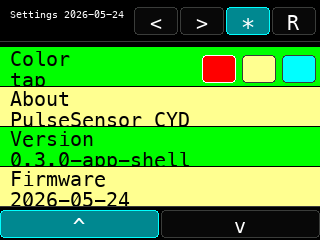
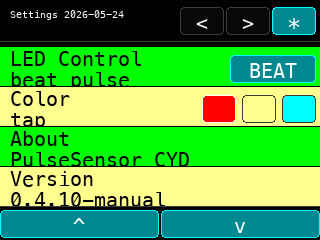
Make App 4 scanner manual and guarded

diff --git a/tools/check_app_shell.py b/tools/check_app_shell.py
@@ -8,6 +8,7 @@ required_tokens = [
     "About",
     "Version",
     "Firmware",
+    "Memory",
     "WiFi",
     "Bluetooth",
     "LED Control",
@@ -130,12 +131,16 @@ required_large_controls = {
     "Pin Scanner": "App 4 pin scanner title is missing",
     "PIN_SCANNER_PIN_COUNT": "App 4 pin scanner pin table is missing",
     "ScannerPin scannerPins[]": "App 4 pin scanner data model is missing",
-    "#define PIN_SCANNER_PIN_COUNT 2": "App 4 should only scan connector-safe external analog candidates",
+    "#define PIN_SCANNER_PIN_COUNT 4": "App 4 should list GPIO35, GPIO22, GPIO21, and GPIO27",
+    "scannerActiveIndex = -1": "App 4 scanner should start with no active pin selected",
+    "handlePinScannerTouch": "App 4 scanner should let one pin be selected at a time",
+    "isPinScannerAdcCapable": "App 4 scanner should guard non-ADC pins before reading",
+    "pinScannerStatusText": "App 4 scanner should explain inactive and non-ADC pin states",
     "HOT_MOVEMENT_MIN": "App 4 pin scanner hot movement threshold is missing",
     "SORT_INTERVAL_MS": "App 4 pin scanner sort interval is missing",
     "SORT_HYSTERESIS": "App 4 pin scanner sort hysteresis is missing",
     "setupPinScanner": "App 4 pin scanner setup is missing",
-    "updatePinScannerReadings": "App 4 pin scanner readings are not updated",
+    "updateActivePinScannerReading": "App 4 pin scanner should update only the selected pin",
     "maybeSortScannerPins": "App 4 pin scanner auto-sort is missing",
     "drawApp4PinScanner": "App 4 pin scanner renderer is missing",
     "drawPinScannerRow": "App 4 pin scanner row renderer is missing",
@@ -183,11 +188,26 @@ app3_fn_body = source[app3_fn_start:app3_fn_end]
 if "tft.fillRect(0, headerHeight" in app3_fn_body:
     raise SystemExit("Origin Story crawl clears the live TFT area directly, causing flicker")
 
-if "if (next > APP_PIN_SCANNER) next = APP_PULSE;" not in source:
-    raise SystemExit("App next navigation does not include App 4 before wrapping")
+expected_app_order = [
+    "APP_PULSE",
+    "APP_SETTINGS",
+    "APP_PIN_SCANNER",
+    "APP_PLACEHOLDER_1",
+    "APP_PLACEHOLDER_2",
+    "APP_COUNT",
+]
+enum_start = source.index("enum AppId {")
+enum_end = source.index("};", enum_start)
+enum_body = source[enum_start:enum_end]
+enum_positions = [enum_body.index(token) for token in expected_app_order]
+if enum_positions != sorted(enum_positions):
+    raise SystemExit("App order should be Pulse, Settings, Pin Scanner, your-app-here, Origin Story")
 
-if "currentApp == APP_SETTINGS ? APP_PIN_SCANNER" not in source:
-    raise SystemExit("App previous navigation does not include App 4")
+if "if (next > APP_PLACEHOLDER_2) next = APP_PULSE;" not in source:
+    raise SystemExit("App next navigation should wrap only after final Origin Story screen")
+
+if "previous == APP_PULSE ? APP_PLACEHOLDER_2" not in source:
+    raise SystemExit("App previous navigation should wrap back to final Origin Story screen")
 
 app4_branch_start = source.index("} else if (currentApp == APP_PIN_SCANNER) {")
 app4_branch_end = source.index("\n  }", app4_branch_start)
@@ -206,11 +226,19 @@ if "displayModeName()" not in app4_fn_body:
 scanner_start = source.index("ScannerPin scannerPins[] = {")
 scanner_end = source.index("};", scanner_start)
 scanner_body = source[scanner_start:scanner_end]
-for unsafe_pin in ['"IO22"', '"LDR IO34"', '"IO32"', '"IO33"', ", 22,", ", 32,", ", 33,"]:
+for unsafe_pin in ['"LDR IO34"', '"IO32"', '"IO33"', ", 32,", ", 33,"]:
     if unsafe_pin in scanner_body:
         raise SystemExit(f"App 4 pin scanner includes unsafe integrated-app scan target: {unsafe_pin}")
-for required_pin in ['"P3  IO35"', '"CN1 IO27"']:
+for required_pin in ['"P3  IO35"', '"IO22"', '"BL  IO21"', '"CN1 IO27"']:
     if required_pin not in scanner_body:
         raise SystemExit(f"App 4 pin scanner is missing external connector target: {required_pin}")
+
+active_update_start = source.index("void updateActivePinScannerReading() {")
+active_update_end = source.index("void maybeSortScannerPins()", active_update_start)
+active_update_body = source[active_update_start:active_update_end]
+if "analogRead(21)" in active_update_body or "analogRead(22)" in active_update_body:
+    raise SystemExit("App 4 scanner still directly reads known non-ADC pins")
+if "isPinScannerAdcCapable(scannerPins[scannerActiveIndex].pin)" not in active_update_body:
+    raise SystemExit("App 4 scanner does not guard analogRead with ADC capability")
 
 print("App shell checks passed")

diff --git a/tools/render_settings_mock.py b/tools/render_settings_mock.py
@@ -18,7 +18,7 @@ TOOLBAR_BUTTON_WIDTH = 44
 TOOLBAR_BUTTON_HEIGHT = 28
 APP_BUTTON_GAP = 2
 SETTINGS_ROW_H = 40
-SETTINGS_ROW_COUNT = 9
+SETTINGS_ROW_COUNT = 11
 
 try:
     FONT_1 = ImageFont.truetype("/System/Library/Fonts/Menlo.ttc", 10)
@@ -42,14 +42,12 @@ def draw_button(draw, x, y, w, label, active=False):
 
 
 def draw_nav(draw, width, y, active_settings=True):
-    rotate_x = width - TOOLBAR_BUTTON_WIDTH - 4
-    settings_x = rotate_x - TOOLBAR_BUTTON_WIDTH - APP_BUTTON_GAP
+    settings_x = width - TOOLBAR_BUTTON_WIDTH - 4
     next_x = settings_x - TOOLBAR_BUTTON_WIDTH - APP_BUTTON_GAP
     prev_x = next_x - TOOLBAR_BUTTON_WIDTH - APP_BUTTON_GAP
     draw_button(draw, prev_x, y, TOOLBAR_BUTTON_WIDTH, "<")
     draw_button(draw, next_x, y, TOOLBAR_BUTTON_WIDTH, ">")
     draw_button(draw, settings_x, y, TOOLBAR_BUTTON_WIDTH, "*", active_settings)
-    draw_button(draw, rotate_x, y, TOOLBAR_BUTTON_WIDTH, "R")
 
 
 def row_screen_y(header_h, scroll_y, row_index):
@@ -95,13 +93,15 @@ def render(width, height, scroll_y, filename):
     rows = [
         ("Volume", "1/10"),
         ("Rotation", "rot 1"),
+        ("Display", "C DARK"),
         ("WiFi", "setup later"),
         ("Bluetooth", "setup later"),
         ("LED Control", "beat pulse"),
         ("Color", "tap"),
         ("About", "PulseSensor CYD"),
-        ("Version", "0.3.0-app-shell"),
+        ("Version", "0.4.10-manual"),
         ("Firmware", "2026-05-24"),
+        ("Memory", "237K free"),
     ]
 
     for index, (label, value) in enumerate(rows):
@@ -116,9 +116,11 @@ def render(width, height, scroll_y, filename):
             draw_button(draw, settings_vol_plus_x, button_y, TOOLBAR_BUTTON_WIDTH, "+")
         elif index == 1:
             draw_button(draw, settings_rotate_x, button_y, 86, "ROT")
-        elif index == 4:
-            draw_button(draw, settings_led_x, button_y, 86, "BEAT", True)
+        elif index == 2:
+            draw_button(draw, settings_rotate_x, button_y, 86, "C DARK", True)
         elif index == 5:
+            draw_button(draw, settings_led_x, button_y, 86, "BEAT", True)
+        elif index == 6:
             for x, color, active in [
                 (swatch_red_x, COLOR_RED, True),
                 (swatch_yellow_x, COLOR_SIGNAL_YELLOW, False),

diff --git a/tools/render_app4_pin_scanner_mock.py b/tools/render_app4_pin_scanner_mock.py
@@ -84,8 +84,10 @@ PALETTES = {
 }
 
 PINS = [
-    ("P3  IO35", 2810, 316, False),
-    ("CN1 IO27", 1948, 114, False),
+    ("P3  IO35", "tap", 0, True),
+    ("IO22", "not adc", 0, False),
+    ("BL  IO21", "backlight", 0, False),
+    ("CN1 IO27", "tap", 0, True),
 ]
 
 try:
@@ -122,25 +124,17 @@ def draw_screen(mode_key):
     draw.text((10, 24), f"{p['name']} raw ADC 0..4095", font=FONT_1, fill=p["text"])
     draw_nav(draw, p)
 
-    hot_index = 0
-    for idx, (label, value, movement, railed) in enumerate(PINS):
-        y = 66 + idx * 48
-        hot = idx == hot_index
-        dotted_line(draw, y + 45, p)
-        if hot:
-            draw.rectangle((0, y + 2, 3, y + 42), fill=p["hot"])
-        draw.text((8, y + 12), label, font=FONT_1, fill=p["hot"] if hot else p["text"])
-        draw.rectangle((82, y + 15, 225, y + 26), outline=p["grid"])
-        fill_w = max(0, int((value / 4095) * 144) - 2)
-        draw.rectangle((83, y + 16, 83 + fill_w, y + 25), fill=p["hot"] if hot else p["bar"])
-        draw.text((244, y + 9), f"{value:4d}", font=FONT_1, fill=p["value"])
-        draw.text((244, y + 20), f"d{movement:4d}", font=FONT_1, fill=p["hot"] if hot else p["text"])
-        if hot:
-            draw.text((292, y + 9), "hot", font=FONT_1, fill=p["hot"])
-        if railed:
-            draw.text((292, y + 20), "rail", font=FONT_1, fill=p["rail"])
+    for idx, (label, status, value, adc_capable) in enumerate(PINS):
+        y = 50 + idx * 42
+        dotted_line(draw, y + 39, p)
+        draw.text((8, y + 10), label, font=FONT_1, fill=p["text"])
+        draw.rectangle((82, y + 13, 225, y + 24), outline=p["grid"])
+        if adc_capable and status != "tap":
+            fill_w = max(0, int((value / 4095) * 144) - 2)
+            draw.rectangle((83, y + 14, 83 + fill_w, y + 23), fill=p["bar"])
+        draw.text((244, y + 7), status, font=FONT_1, fill=p["value"])
 
-    draw.text((8, 226), "External ADC: IO35 IO27  HOT=movement", font=FONT_1, fill=p["text"])
+    draw.text((8, 226), "Tap one pin. IO21/IO22 guarded.", font=FONT_1, fill=p["text"])
     path = OUT_DIR / f"app4-pin-scanner-{mode_key}.png"
     image.save(path)
     print(path)

diff --git a/README.md b/README.md
@@ -50,14 +50,16 @@ This branch adds the standalone CYD Analog Pin Scanner as App 4 inside the launc
 
 ```text
 Branch: codex/app4-pin-scanner-20260524
-Firmware: 0.4.9-safe-pin-scanner
+Firmware: 0.4.10-manual-pin-scanner
 Source scanner: yury-g/CYD_Analog_Pin_Scanner c203d85
 ```
 
 - Added App 4 `Pin Scanner`, based on the standalone `CYD_Analog_Pin_Scanner` diagnostic sketch.
-- Scans only connector-safe external analog candidates `GPIO 35` on `P3` and `GPIO 27` on `CN1` with 12-bit ADC readings, movement tracking, rail warnings, and auto-sort by movement.
-- Excludes `GPIO 22` because it is not an ESP32 ADC input, excludes `GPIO 32` and `GPIO 33` because this firmware uses them for the touch controller, and excludes `GPIO 34` because it is the onboard LDR path rather than a shipped-cable sensor connector target.
-- Keeps the Pulse app on 10-bit ADC reads and switches to 12-bit only while App 4 is active.
+- Lists `GPIO 35`, `GPIO 22`, `GPIO 21`, and `GPIO 27`, starts with scanning inactive, and lets you tap one pin row at a time.
+- Reads only ADC-capable test targets (`GPIO 35` and `GPIO 27`) and guards `GPIO 22` / `GPIO 21` with status text instead of calling `analogRead()` on them.
+- Keeps the Pulse app on 10-bit ADC reads and switches to 12-bit only while App 4 is active on an ADC-capable row.
+- Reordered the app flow so Settings is after Pulse, Pin Scanner is after Settings, `your app here` stays second-to-last, and `Origin Story` stays the final app screen.
+- Added a Settings `Memory` row showing free heap on the current device.
 - Added App 4 mockups for `M DARK`, `M LIGHT`, `C DARK`, and `C LIGHT`, plus a contact sheet under `docs/screenshots/app4-pin-scanner-render/`.
 
 ### App-shell preview — 2026-05-24

diff --git a/CHANGELOG.md b/CHANGELOG.md
@@ -1,6 +1,7 @@
 # CYD App Launcher — Student Version — Changelog
 
 ## Unreleased
+- 2026-05-24 App 4 manual scan crash-control pass: changed Pin Scanner to start inactive, list `GPIO35`, `GPIO22`, `GPIO21`, and `GPIO27`, and scan only one tapped pin at a time; `GPIO21` and `GPIO22` are guarded with status text instead of `analogRead()` calls. Reordered app navigation so Settings follows Pulse, Pin Scanner follows Settings, the `your app here` page is second-to-last, and Origin Story is always the final app; added a Settings `Memory` free-heap row. Firmware version is `0.4.10-manual-pin-scanner`.
 - 2026-05-24 App 4 crash fix: narrowed the integrated pin scanner to connector-safe external analog candidates `GPIO35` on `P3` and `GPIO27` on `CN1`; removed `GPIO22` because it is not ADC-capable in the ESP32 analog API, removed `GPIO32`/`GPIO33` because they are used by the touch controller, and removed onboard `GPIO34`/LDR from the shipped-cable scanner target list; firmware version is `0.4.9-safe-pin-scanner`.
 - 2026-05-24 App 4 pin-scanner experiment: integrated the standalone `CYD_Analog_Pin_Scanner` sketch as launcher App 4, scanning `GPIO 35`, `GPIO 22`, `GPIO 27`, `GPIO 34`, `GPIO 32`, and `GPIO 33` with 12-bit ADC reads, movement tracking, rail warnings, and auto-sort by movement; firmware version is `0.4.8-pin-scanner`.
 - 2026-05-24 App 4 visual treatment: added mode-aware `M DARK`, `M LIGHT`, `C DARK`, and `C LIGHT` pin-scanner colors, generated App 4 PNG mockups/contact sheet, and added `tools/update_screenshot_contact_sheet.py` for refreshing the GitHub screenshot folder README.
